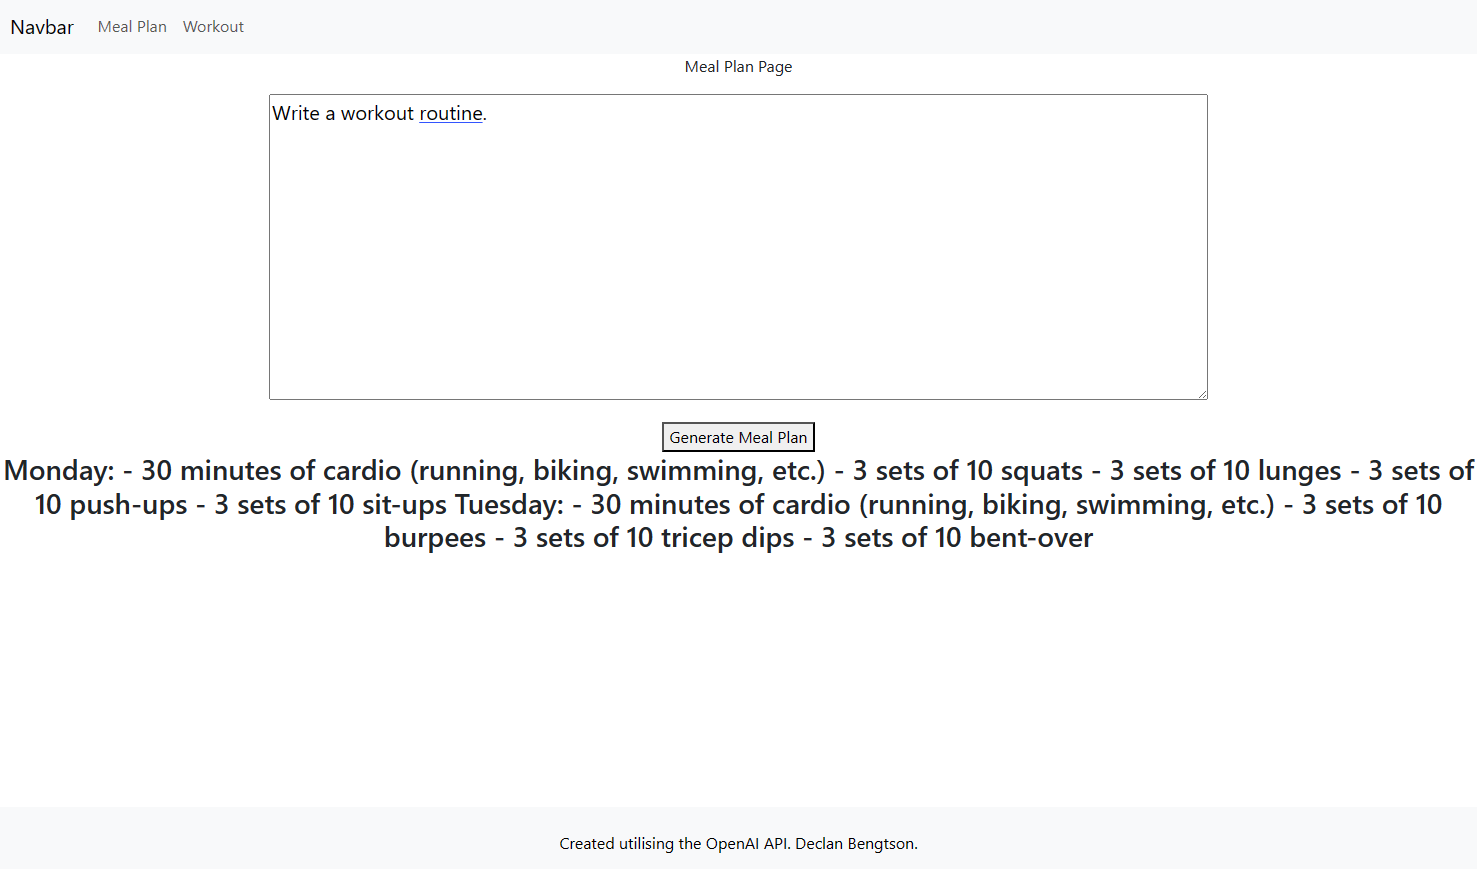
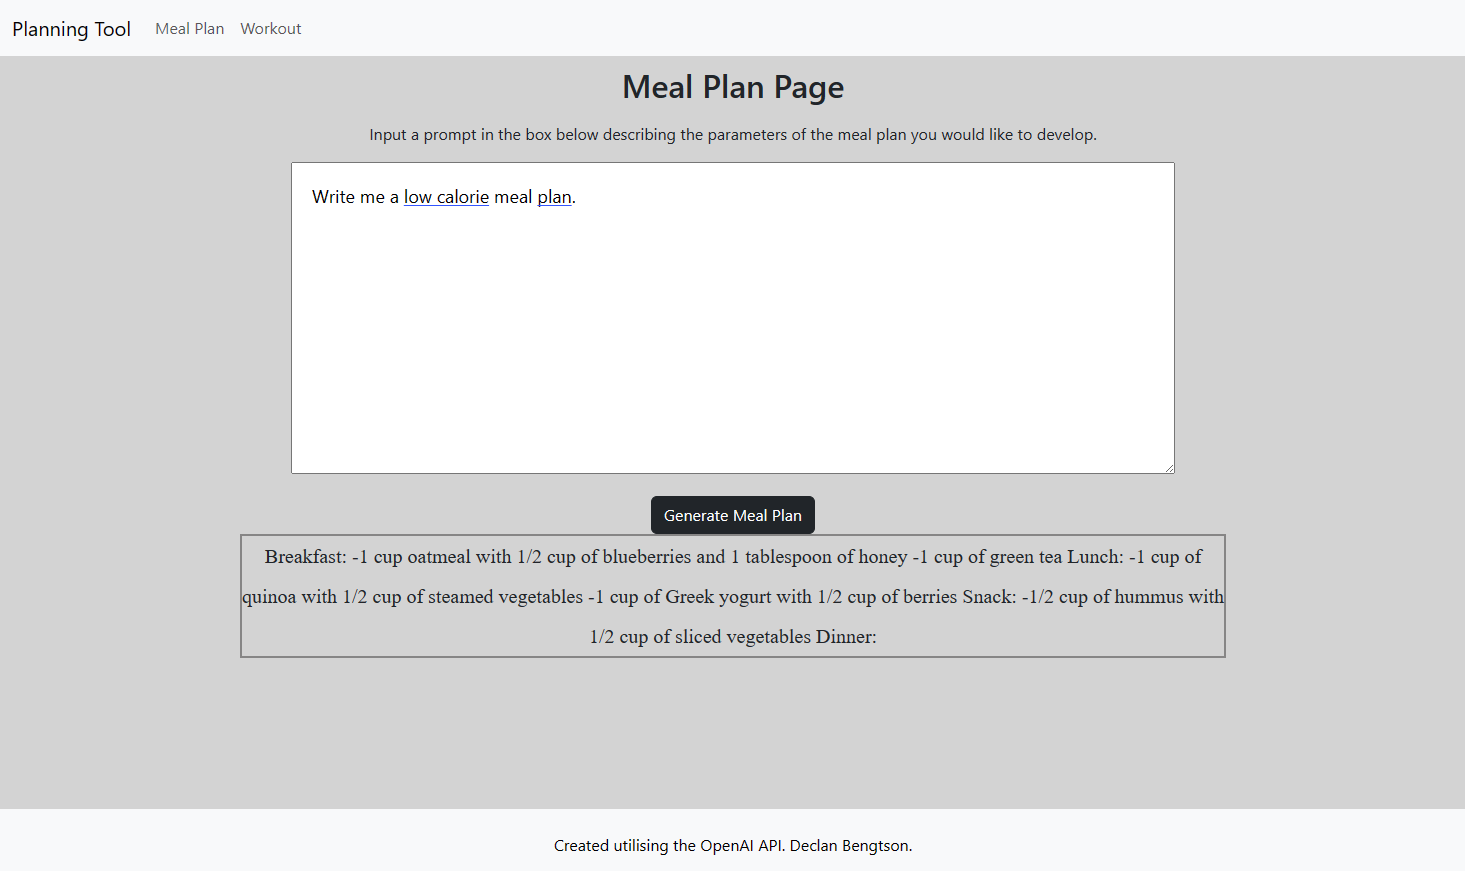
Updates

diff --git a/src/Pages/Workout.js b/src/Pages/Workout.js
@@ -1,14 +1,51 @@
 import React from "react"
-import { useNavigate } from 'react-router-dom';
-
 import { Configuration, OpenAIApi } from "openai";
+import { useState } from "react";
 
+//Chatgpt setup
+const OPENAI_API_KEY ="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";
 
 export default function Workout() {
-
-    return (
-        <div>
-            <p>Workout Page</p>
-        </div>
-    );
+        const arrayItems = [{
+            name: "Q&A",
+            id: "q&a",
+            description: "Answer questions based on existing knowledge",
+            option: {
+              model: "text-davinci-003",
+              temperature: 0,
+              max_tokens: 100,
+              top_p: 1,
+              frequency_penalty: 0.0,
+              presence_penalty: 0.0,
+            }}
+      ]
+      const configuration = new Configuration({
+          apiKey: OPENAI_API_KEY,
+        });
+        const openai = new OpenAIApi(configuration);
+        const [result, setResult] = useState("");
+        const [input, setInput] = useState("");
+       
+        const doStuff = async () => {
+          console.log(arrayItems[0].option);
+          console.log(input);
+          let object = { ...arrayItems[0].option, prompt: input };
+  
+      
+          const response = await openai.createCompletion(object);
+          console.log(response);
+  
+          setResult(response.data.choices[0].text);
+        };
+      return (
+          <div>
+              <h2>Workout Plan Page</h2>
+              <p>Input a prompt in the box below describing the parameters of the exercise plan you would like to develop.</p>
+              <textarea className="text-area" cols={100} rows={10} onChange={(e) => setInput(e.target.value)}
+  ></textarea>
+              <p></p>
+              <button type="button" class="btn btn-dark" onClick={doStuff}>Generate Exercise Plan</button>
+              <h3 className="result-text">{result.length > 0 ? result : ""}</h3>
+          </div>
+      );
 }

diff --git a/src/Pages/MealPlan.jsx b/src/Pages/MealPlan.jsx
@@ -5,7 +5,7 @@ import { useState } from "react";
 
 
 //Chatgpt setup
-const OPENAI_API_KEY ="";
+const OPENAI_API_KEY ="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";
 
 export default function MealPlan() {
     const arrayItems = [{
@@ -40,13 +40,14 @@ export default function MealPlan() {
         setResult(response.data.choices[0].text);
       };
     return (
-        <div>
-            <p>Meal Plan Page</p>
-            <textarea className="text-area" cols={100} rows={10} onChange={(e) => setInput(e.target.value)}
-></textarea>
+        <div className='background'  style={{
+            backgroundColor: '#D3D3D3',  height : '100vh'}}>
+            <h2 className='Title'>Meal Plan Page</h2>
+            <p>Input a prompt in the box below describing the parameters of the meal plan you would like to develop.</p>
+            <textarea className="text-area" cols={100} rows={10} onChange={(e) => setInput(e.target.value)}></textarea>
             <p></p>
-            <button className="button" onClick={doStuff}>Generate Meal Plan</button>
-            <h3 className="result-text">{result.length > 0 ? result : ""}</h3>
+            <button type="button" class="btn btn-dark" onClick={doStuff}>Generate Meal Plan</button>
+            <h3 className="result-text" >{result.length > 0 ? result : ""}</h3>
         </div>
     );
 }

diff --git a/src/Pages/Home.js b/src/Pages/Home.js
@@ -47,18 +47,16 @@ export default function App() {
           </MDBCollapse>
         </MDBContainer>
       </MDBNavbar>
-
-      <div
-        id='intro-example'
-        className='p-5 text-center bg-image'
-        style={{ backgroundImage: "img src='..//Images/Gym.jpg'" }}
-      >
+      
+        
+        
+      <div id='bgimg' className='view' style={{ backgroundImage: `url(${Gym})`,height: '100vh' }} >
         <div className='mask' style={{ backgroundColor: 'rgba(0, 0, 0, 0.7)' }}>
           <div className='d-flex justify-content-center align-items-center h-100'>
             <div className='text-white'>
               <h1 className='mb-3'>Exercise and diet planning tool</h1>
               <h5 className='mb-4'>Responses generated utilising OpenAi's API</h5>
-              
+              <p></p>
             </div>
           </div>
         </div>

diff --git a/src/App.css b/src/App.css
@@ -7,11 +7,7 @@
   pointer-events: none;
 }
 
-@media (prefers-reduced-motion: no-preference) {
-  .App-logo {
-    animation: App-logo-spin infinite 20s linear;
-  }
-}
+
 
 .App-header {
   background-color: #282c34;
@@ -27,15 +23,21 @@
 .App-link {
   color: #61dafb;
 }
+
 .text-area{
+  font-size: 18px;
+  padding: 20px;
+}
+.result-text {
+  font-family: Poppins;
   font-size: 20px;
+  line-height: 2.5rem;
+  border: 2px solid rgb(134, 133, 133);
+  margin-left: 240px;
+  margin-right: 240px;
 }
 
-@keyframes App-logo-spin {
-  from {
-    transform: rotate(0deg);
-  }
-  to {
-    transform: rotate(360deg);
-  }
+.Title{
+  padding: 10px;
 }
+

diff --git a/src/Components/Header.js b/src/Components/Header.js
@@ -17,7 +17,7 @@ export default function App() {
   return (
     <MDBNavbar expand='lg' light bgColor='light'>
       <MDBContainer fluid>
-        <MDBNavbarBrand href='/'>Navbar</MDBNavbarBrand>
+        <MDBNavbarBrand href='/'>Planning Tool</MDBNavbarBrand>
         <MDBNavbarToggler
           aria-expanded='false'
           aria-label='Toggle navigation'
